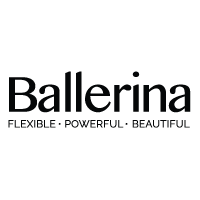
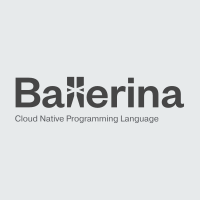
Update branding of vscode plugin

Changed region(s): [[0.03, 0.36, 0.96, 0.66]]

diff --git a/README.md b/README.md
@@ -1,26 +1,40 @@
 # Ballerina plugin for Visual Studio Code
 
-## How to install
+[Ballerina](http://ballerina.io) makes it easy to build resilient services that integration and orchestrate across distributed endpoints. This plugin adds language support for Ballerina to Visual Studio Code.
 
-Find the plugin in the visual studio [marketplace](https://marketplace.visualstudio.com/items?itemName=WSO2.Ballerina) and follow the instructions.
-
-### Configuring the Ballerina SDK path
-
-If you plan on using ballerina libraries other than the ones in the standard ballerina distribution you should set the `ballerina.sdk` setting to the path to the directory of extracted ballerina distribution.
-
-To get to the settings in vscode use <kbd>CTRL</kbd> + <kbd>,</kbd> in Windows and Linux and <kbd>⌘</kbd> + <kbd>,</kbd> in macOS. [More info](https://code.visualstudio.com/docs/getstarted/settings).
+## Quick start
+- Download and install ballerina platform from [ballerina.io](https://ballerina.io/downloads/).
+- Install VSCode plugin.
+    - **Option 1.** Install this extension from the VSCode [marketplace](https://marketplace.visualstudio.com/items?itemName=WSO2.Ballerina) (or by entering `ext install WSO2.Ballerina` at the command palette).
+    - **Option 2.** Download and install the VSCode plugin manually.
+        - Download `ballerina-vscode-plugin-VERSION.vsix` from [ballerina.io](https://ballerina.io/downloads/). When downloading make sure plugin version matches the platform version you have installed.
+        - Go to Install from VSIX... command in the Extensions View command drop-down, or the Extensions: Install from VSIX... command in the Command Palette, and select the .vsix file to install. [More info](https://code.visualstudio.com/docs/editor/extension-gallery#_install-from-a-vsix)
+- Configure  `ballerina.sdk` path in settings. ( This step is mandatory for the Ballerina VSCode plugin features to work ) 
+To get to the settings in vscode use <kbd>CTRL</kbd> + <kbd>,</kbd> in Windows and Linux and <kbd>⌘</kbd> + <kbd>,</kbd> in macOS. [More info](https://code.visualstudio.com/docs/getstarted/settings)
 
 ![set sdk](https://github.com/ballerina-lang/ballerina/blob/master/tool-plugins/vscode/docs/set-sdk.gif?raw=true)
 
-## Usage
 
-### Editor features
+## Plugin Features
+
+### Language Support
 
 * Code completion : <kbd>CTRL</kbd> + <kbd>SPACE</kbd>
 * Go to definition 
     * Jump to source: <kbd>CTRL</kbd> + <kbd>Click</kbd>
     * Open to the side with <kbd>CTRL</kbd> + <kbd>ALT</kbd> + <kbd>Click</kbd>
 * Go to symbol : <kbd>CTRL</kbd> + <kbd>SHIFT</kbd> + <kbd>O</kbd>
+* Find All references
+* Hover Support
+* Signature Help
+* Rename
+
+### Diagram View
+
+Ballerina’s underlying language semantics were designed by modeling how independent parties communicate via structured interactions. Subsequently, every Ballerina program can be displayed as a sequence diagram of its flow with endpoints, including synchronous and asynchronous calls. 
+
+To view the sequence diagram of a ballerina file press the diagram icon in top right corner.
+
 
 ### Debugger
 
@@ -51,11 +65,6 @@ To launch the debugger, the path to the ballerina sdk needs to be configured. In
 
 If you want to help develop the ballerina vscode plugin or want to build from source and try out the latest features see [information for developers](https://github.com/ballerina-lang/ballerina/blob/master/tool-plugins/vscode/docs/developer-info.md).
 
-## About Ballerina
-
-ballerina is a general purpose, concurrent and strongly typed programming language with both textual and graphical syntaxes, optimized for integration.
-
-for more info: http://ballerinalang.org/
 
 ## License
 
@@ -63,4 +72,5 @@ Ballerina Visual Studio Code plugin source is available under the Apache 2.0 Lic
 
 ## Copyright
 
-Copyright (c) 2017, WSO2 Inc. (http://www.wso2.org) All Rights Reserved.
+Copyright (c) 2018, WSO2 Inc. (http://www.wso2.org) All Rights Reserved.
+
